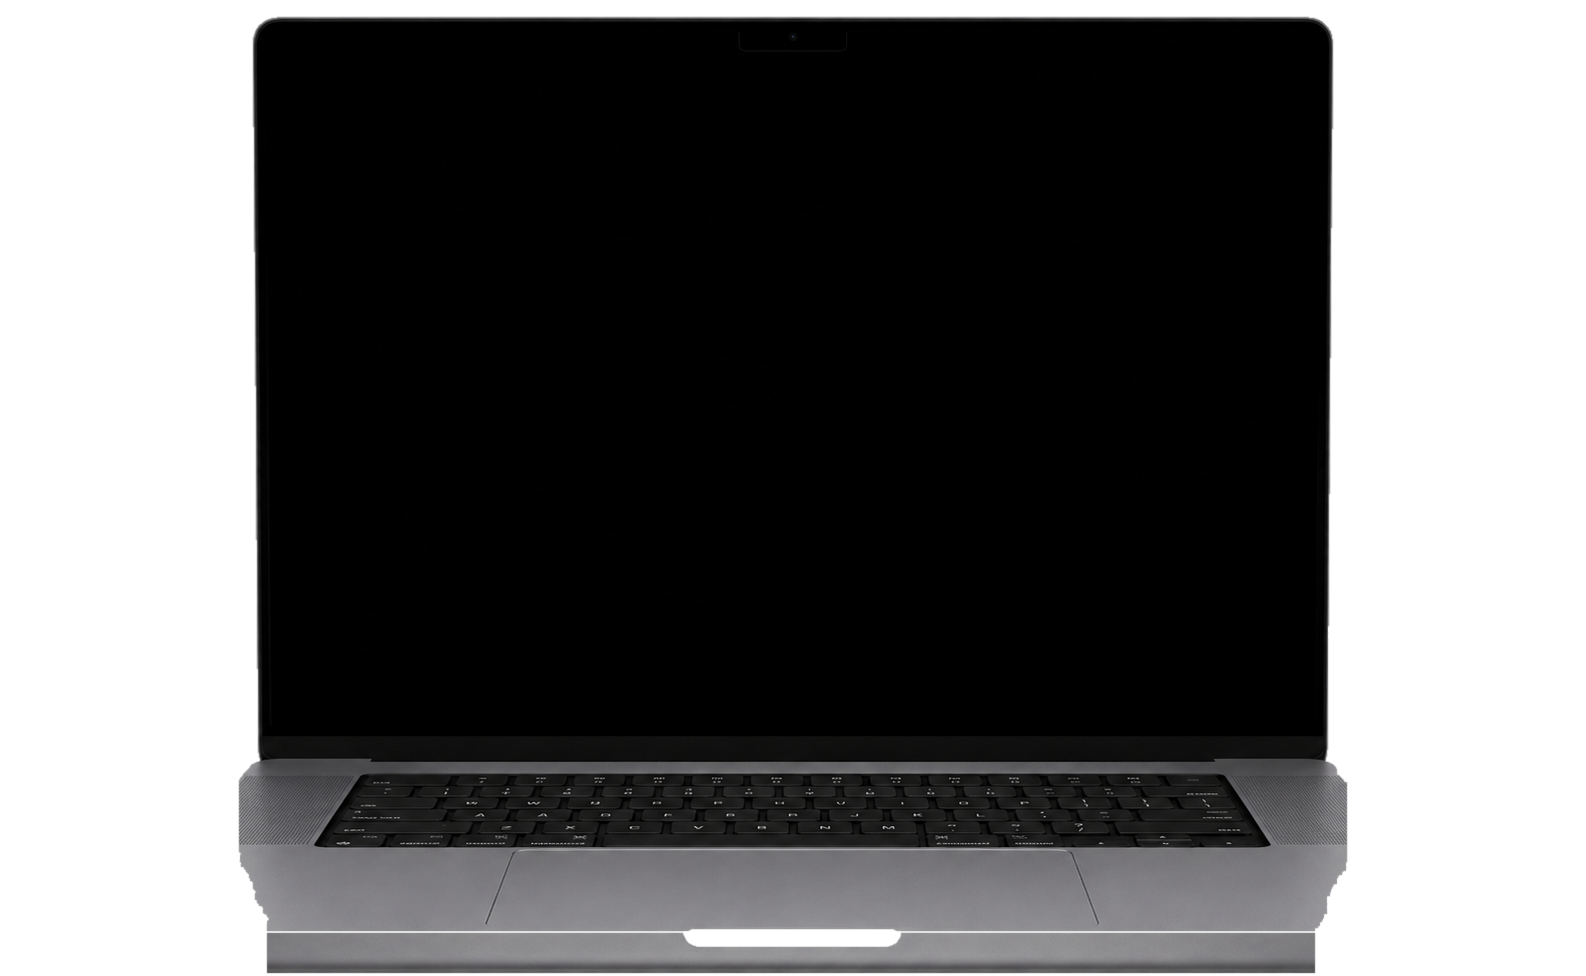
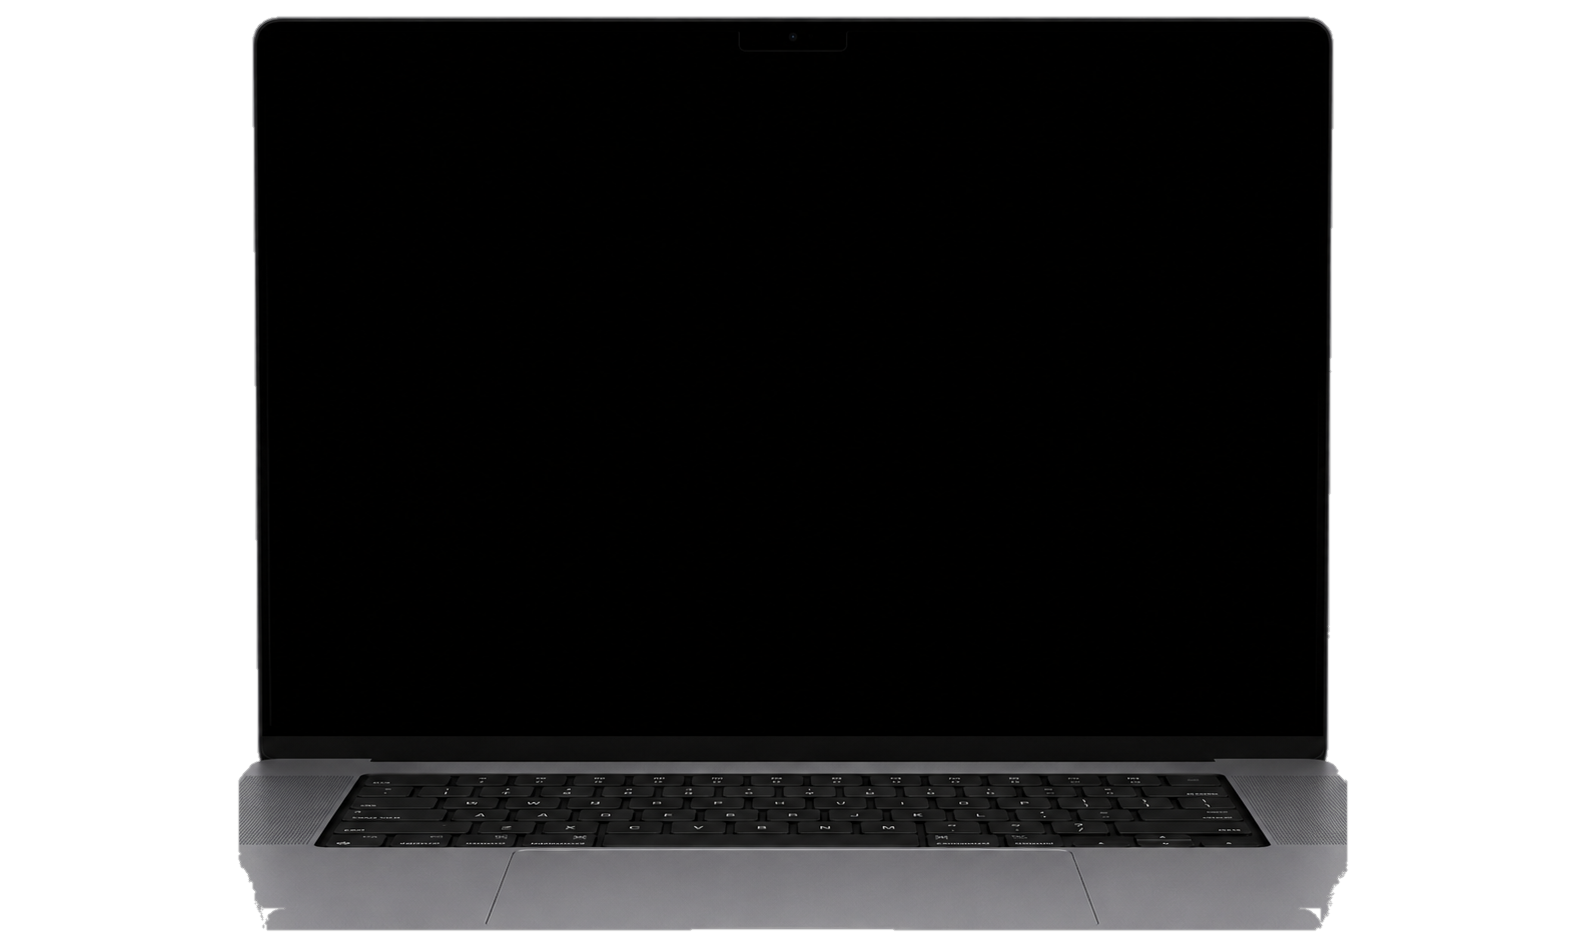
fix(demo-studio): glatt + avrundet MacBook-base (ingen side-kutt)
Front-lip-baren hadde harde vertikale ender + frynsete bunn-hjørner som
så ut som basen ble kuttet på sidene. Renset med median-glattet silhuett-
klipp (fjerner frynse-spikes) + avrundede bunn-hjørner. Laptopen slutter
nå rent ved palmrest-kanten. Canvas 932px, specs oppdatert.

Changed region(s): [[0.1236, 0.7779, 0.8651, 1.0], [0.1854, 0.0, 0.8342, 0.0311]]

diff --git a/apps/resolve-script-manager/src/components/demo-studio/deviceFrames.ts b/apps/resolve-script-manager/src/components/demo-studio/deviceFrames.ts
@@ -24,7 +24,7 @@ export interface FrameSpec {
 // Verdier fra piksel-deteksjon (deviceFrames i frontend):
 //   iphone  1086x1448  screen 248,85 588x1275
 //   ipad    1086x1448  screen 131,112 823x1222
-//   macbook 1586x976   screen 261,39 1064x698  (slab klippet til flush front-lip)
+//   macbook 1586x932   screen 261,39 1064x698  (base glattet + avrundet, slab fjernet)
 export const DEVICE_FRAMES: Record<FrameVariant, FrameSpec> = {
   iphone: {
     src: iphoneFrame, aspect: 1086 / 1448,
@@ -37,8 +37,8 @@ export const DEVICE_FRAMES: Record<FrameVariant, FrameSpec> = {
     radius: 20 / 1086,
   },
   macbook: {
-    src: macbookFrame, aspect: 1586 / 976,
-    screen: { x: 261 / 1586, y: 39 / 976, w: 1064 / 1586, h: 698 / 976 },
+    src: macbookFrame, aspect: 1586 / 932,
+    screen: { x: 261 / 1586, y: 39 / 932, w: 1064 / 1586, h: 698 / 932 },
     radius: 6 / 1586,
   },
 };

diff --git a/frontend/client/src/components/role-room/post-agent/mockup-video/deviceFrames.ts b/frontend/client/src/components/role-room/post-agent/mockup-video/deviceFrames.ts
@@ -34,7 +34,7 @@ import macbookFrame from './frames/macbook.png';
 export const DEVICE_FRAMES: Record<DeviceVariant, FrameSpec> = {
   iphone: { src: iphoneFrame, frameW: 1086, frameH: 1448, sx: 248, sy: 85, sw: 588, sh: 1275, screenRadius: 56 },
   ipad: { src: ipadFrame, frameW: 1086, frameH: 1448, sx: 131, sy: 112, sw: 823, sh: 1222, screenRadius: 20 },
-  macbook: { src: macbookFrame, frameW: 1586, frameH: 976, sx: 261, sy: 39, sw: 1064, sh: 698, screenRadius: 6 },
+  macbook: { src: macbookFrame, frameW: 1586, frameH: 932, sx: 261, sy: 39, sw: 1064, sh: 698, screenRadius: 6 },
 };
 
 /** Forholdstall (bredde/høyde) for hele frame-PNG-en. */
